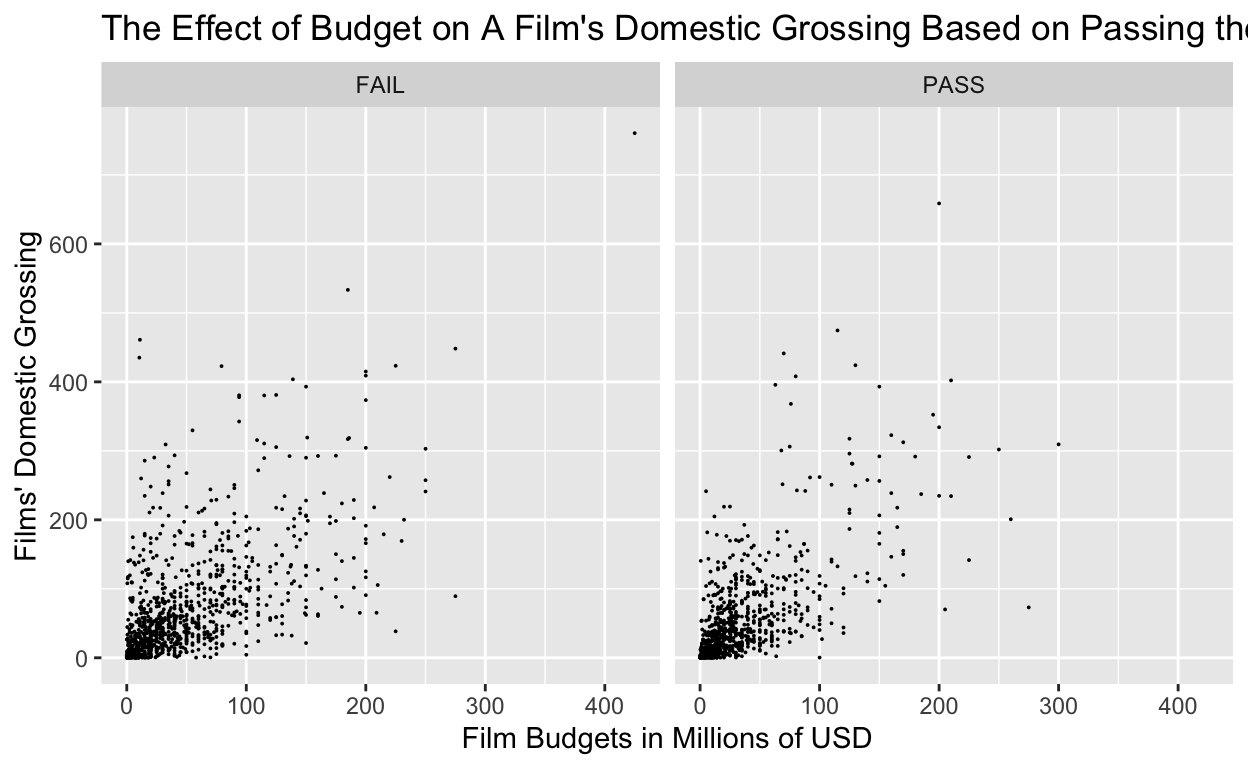
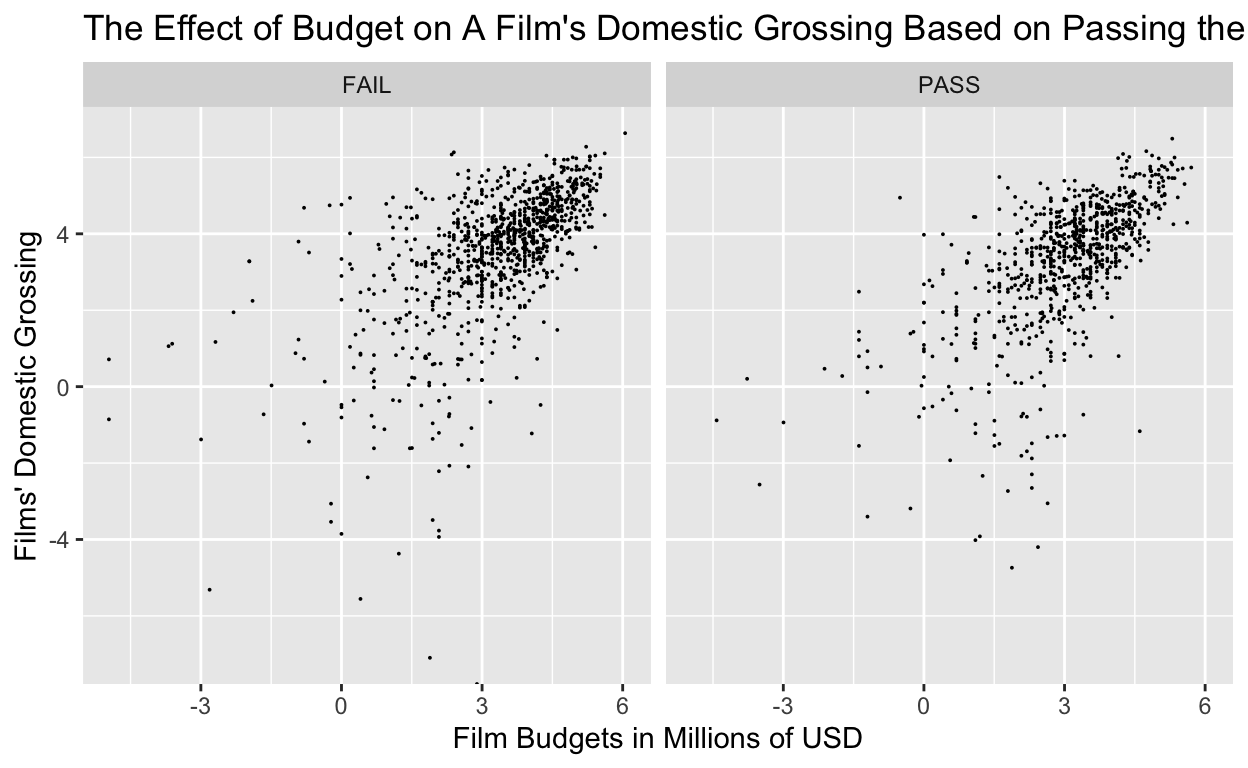
log

diff --git a/index.html b/index.html
@@ -1535,7 +1535,7 @@ For the Gov 50 Final Project, my research question is: What is the relationship 
 <div class="layout-chunk" data-layout="l-body">
 <div class="sourceCode">
 <pre class="sourceCode r"><code class="sourceCode r"><span><span class='kw'><a href='https://rdrr.io/r/base/library.html'>library</a></span><span class='op'>(</span><span class='va'><a href='https://ggplot2.tidyverse.org'>ggplot2</a></span><span class='op'>)</span></span>
-<span><span class='va'>bechdel_plot</span> <span class='op'>&lt;-</span> <span class='fu'><a href='https://ggplot2.tidyverse.org/reference/ggplot.html'>ggplot</a></span><span class='op'>(</span>data <span class='op'>=</span> <span class='va'>bechdel</span>, mapping <span class='op'>=</span> <span class='fu'><a href='https://ggplot2.tidyverse.org/reference/aes.html'>aes</a></span><span class='op'>(</span>x <span class='op'>=</span> <span class='va'>budget_millions</span>, y <span class='op'>=</span> <span class='va'>domgross_millions</span><span class='op'>)</span><span class='op'>)</span> <span class='op'>+</span> <span class='fu'><a href='https://ggplot2.tidyverse.org/reference/geom_point.html'>geom_point</a></span><span class='op'>(</span>size <span class='op'>=</span> <span class='fl'>0.01</span><span class='op'>)</span> <span class='op'>+</span> <span class='fu'><a href='https://ggplot2.tidyverse.org/reference/facet_wrap.html'>facet_wrap</a></span><span class='op'>(</span><span class='op'>~</span> <span class='va'>binary</span><span class='op'>)</span> <span class='op'>+</span> <span class='fu'><a href='https://ggplot2.tidyverse.org/reference/labs.html'>labs</a></span><span class='op'>(</span>x <span class='op'>=</span> <span class='st'>"Film Budgets in Millions of USD"</span>, y <span class='op'>=</span> <span class='st'>"Films' Domestic Grossing"</span>, title <span class='op'>=</span> <span class='st'>"The Effect of Budget on A Film's Domestic Grossing Based on Passing the Bechdel Test"</span><span class='op'>)</span></span>
+<span><span class='va'>bechdel_plot</span> <span class='op'>&lt;-</span> <span class='fu'><a href='https://ggplot2.tidyverse.org/reference/ggplot.html'>ggplot</a></span><span class='op'>(</span>data <span class='op'>=</span> <span class='va'>bechdel</span>, mapping <span class='op'>=</span> <span class='fu'><a href='https://ggplot2.tidyverse.org/reference/aes.html'>aes</a></span><span class='op'>(</span>x <span class='op'>=</span> <span class='fu'><a href='https://rdrr.io/r/base/Log.html'>log</a></span><span class='op'>(</span><span class='va'>budget_millions</span><span class='op'>)</span>, y <span class='op'>=</span> <span class='fu'><a href='https://rdrr.io/r/base/Log.html'>log</a></span><span class='op'>(</span><span class='va'>domgross_millions</span><span class='op'>)</span><span class='op'>)</span><span class='op'>)</span> <span class='op'>+</span> <span class='fu'><a href='https://ggplot2.tidyverse.org/reference/geom_point.html'>geom_point</a></span><span class='op'>(</span>size <span class='op'>=</span> <span class='fl'>0.01</span><span class='op'>)</span> <span class='op'>+</span> <span class='fu'><a href='https://ggplot2.tidyverse.org/reference/facet_wrap.html'>facet_wrap</a></span><span class='op'>(</span><span class='op'>~</span> <span class='va'>binary</span><span class='op'>)</span> <span class='op'>+</span> <span class='fu'><a href='https://ggplot2.tidyverse.org/reference/labs.html'>labs</a></span><span class='op'>(</span>x <span class='op'>=</span> <span class='st'>"Film Budgets in Millions of USD"</span>, y <span class='op'>=</span> <span class='st'>"Films' Domestic Grossing"</span>, title <span class='op'>=</span> <span class='st'>"The Effect of Budget on A Film's Domestic Grossing Based on Passing the Bechdel Test"</span><span class='op'>)</span></span>
 <span><span class='va'>bechdel_plot</span></span></code></pre>
 </div>
 <p><img src="index_files/figure-html5/unnamed-chunk-2-1.png" width="624" /></p>
